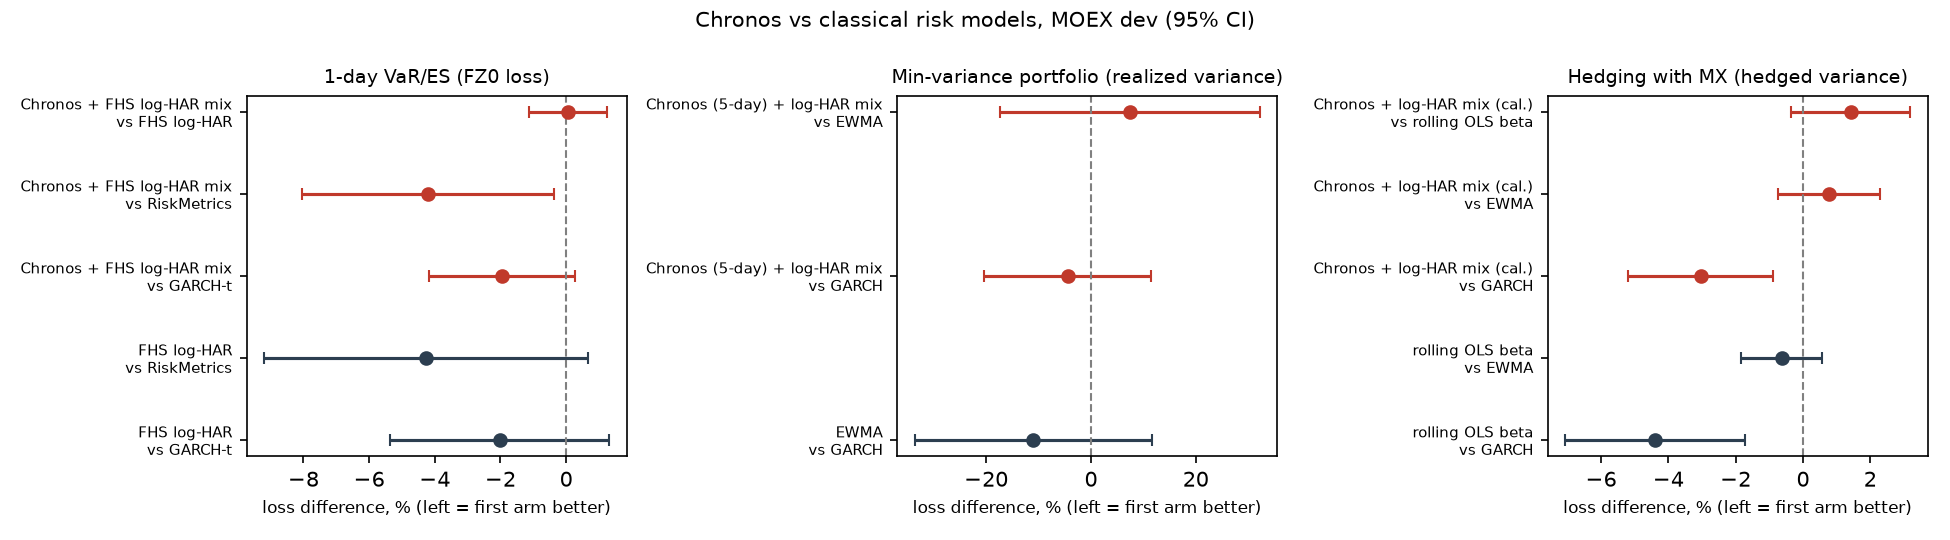
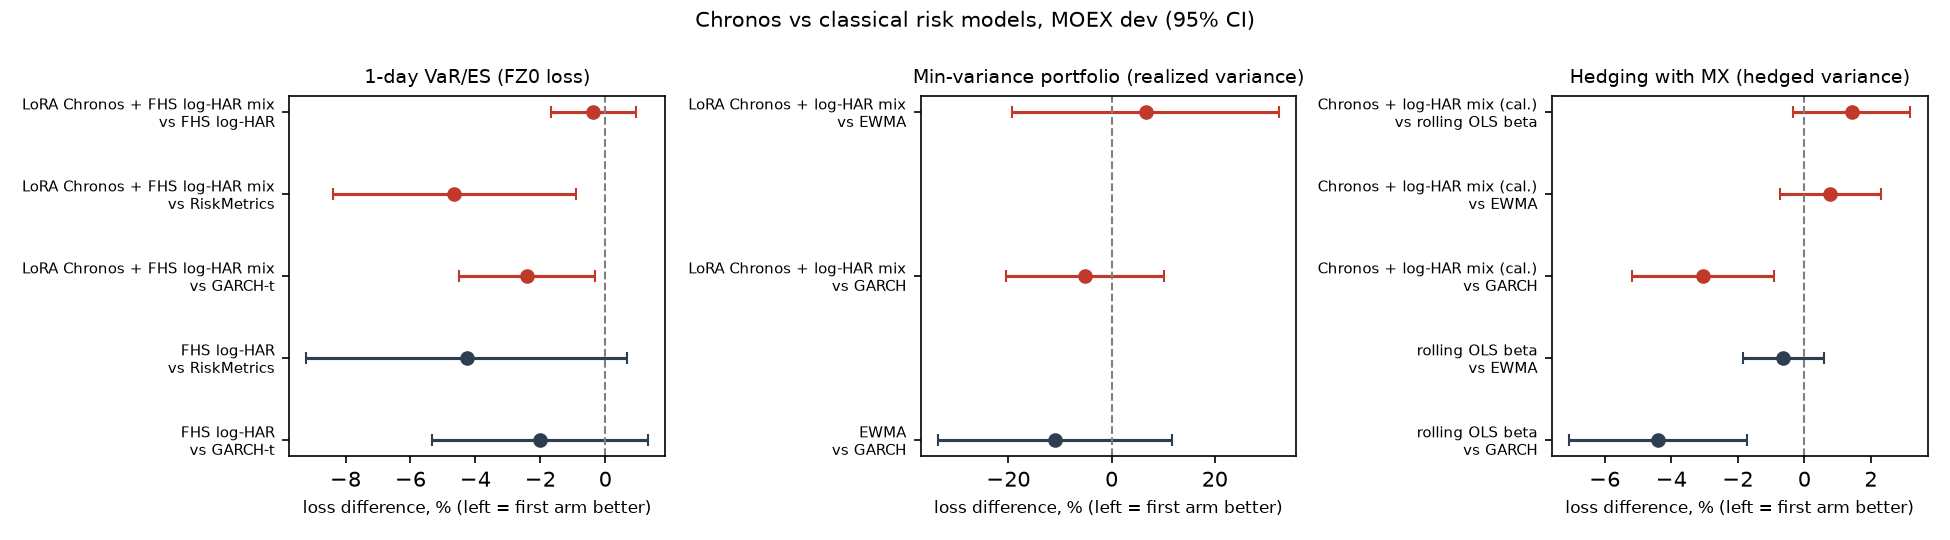
F rule applied: frozen U1 C = mixeq_chr_F2ret, U3 C = mixeq_chr_F2rv. Holdout evaluator builds them from the spliced F2 source plus the Colab holdout folds (records and exact eligible coverage checked before any scoring); local holdout sources reduced to Z3/N5m/N5e. Frozen F2 arms rebuilt identicall

diff --git a/forecasting/risk_experiment/holdout_run.py b/forecasting/risk_experiment/holdout_run.py
@@ -28,13 +28,16 @@ al, rl, ra, cs = rr.al, rr.rl, rr.ra, rr.cs
 NW, Z = rr.NW, stats.norm.ppf(0.95)
 
 # ── frozen by the pre-registration (dev selection; F rule applied before the PREREG commit) ──────────────
-# (re-selected after the plan-H universe correction)
-FROZEN = {"U1": {"C": "mixeq_chr_N1ret", "B": "fhs_loghar", "refs": ("rm", "garch_t")},
+# (re-selected after the plan-H universe correction; U1 and U3 C replaced by F2 arms under the F rule, plan I)
+FROZEN = {"U1": {"C": "mixeq_chr_F2ret", "B": "fhs_loghar", "refs": ("rm", "garch_t")},
           "U2": {"C": "fac_chr", "B": "port_loghar", "refs": ("ewma", "garch")},
-          "U3": {"C": "mixeq_chr_N4rv", "B": "ewma", "refs": ("ewma", "garch")},
+          "U3": {"C": "mixeq_chr_F2rv", "B": "ewma", "refs": ("ewma", "garch")},
           "U4": {"C": "mixeq_chr_Z3_cal", "B": "ols_beta", "refs": ("ewma", "garch")}}
 MARGIN_COLS = {"U1": "delta_50pct_gap", "U4": "delta_0.5pp_vol"}   # non-inferiority δ (U2, U3: not testable)
-SOURCES = ("Z3", "N1", "N4", "N5m", "N5e")
+SOURCES = ("Z3", "N5m", "N5e")                     # zero-shot holdout sources the frozen arms need (run locally)
+F_SOURCES = ("F2",)                                # fine-tuned sources the frozen arms need (Colab holdout bundle)
+FT_HOLDOUT = rr.RUNS / "risk_ft" / "holdout"
+F_HOLDOUT_YEARS = (2025, 2026)
 
 
 def margins() -> dict:
@@ -51,15 +54,41 @@ def holdout_source_path(name: str) -> Path:
     return rr.OUT / "sources" / "holdout" / name / "preds.parquet"
 
 
-def load_sources(period: str) -> dict:
+def check_f_holdout(name: str, ft: pd.DataFrame, eligible: pd.DataFrame) -> None:
+    """Coverage of the Colab holdout forecasts, checked before any scoring: every eligible (anchor, ticker) of
+    the holdout, each variate of the target and h = 1..H, exactly once (the dev folds had exactly this, since
+    they matched their zero-shot twin generated by the same function)."""
+    import ft_core as fc
+    keys = ["anchor", "ticker", "variate", "h"]
+    anchors = rr.span(eligible.index, rr.HOLDOUT)
+    el = eligible.loc[anchors].stack()
+    cells = el[el].index
+    want = pd.MultiIndex.from_tuples([(a, t, v, h) for a, t in cells for v in fc.TARGETS[name] for h in range(1, fc.H + 1)],
+                                     names=keys)
+    got = pd.MultiIndex.from_frame(ft[keys].assign(anchor=pd.to_datetime(ft["anchor"])))
+    miss, extra = want.difference(got), got.difference(want)
+    if got.has_duplicates or len(miss) or len(extra):
+        raise ValueError(f"{name} holdout: missing {len(miss)}, extra {len(extra)}, duplicated {int(got.duplicated().sum())} rows")
+
+
+def load_sources(period: str, eligible: pd.DataFrame | None = None) -> dict:
     """Dev forecasts; for the holdout, dev + holdout forecasts concatenated (the panels agree on the overlap,
-    holdout_qa), so rolling calibrations at the start of 2025 see late-2024 forecasts."""
-    dev = {"Z3": rr.SRC["Z3"], "N1": rr.SRC["N1"], "N4": rr.SRC["N4"], "N5m": rr.source_path("N5m"), "N5e": rr.source_path("N5e")}
+    holdout_qa), so rolling calibrations at the start of 2025 see late-2024 forecasts. Fine-tuned sources are
+    the spliced dev source (plan I) followed by the Colab holdout folds."""
+    dev = {"Z3": rr.SRC["Z3"], "N5m": rr.source_path("N5m"), "N5e": rr.source_path("N5e")}
     P = {k: pd.read_parquet(v) for k, v in dev.items()}
+    P.update({k: rr.load_f_source(k) for k in F_SOURCES})
     if period == "holdout":
+        h0 = pd.Timestamp(rr.HOLDOUT[0])
         for k in SOURCES:
             h = pd.read_parquet(holdout_source_path(k))
-            P[k] = pd.concat([P[k][P[k]["anchor"] < pd.Timestamp(rr.HOLDOUT[0])], h], ignore_index=True)
+            P[k] = pd.concat([P[k][P[k]["anchor"] < h0], h], ignore_index=True)
+        for k in F_SOURCES:
+            rr.ft_records(FT_HOLDOUT, (k,), years=F_HOLDOUT_YEARS)            # folds present, lr = validation argmin
+            ft = pd.concat([pd.read_parquet(FT_HOLDOUT / k / str(y) / "preds.parquet") for y in F_HOLDOUT_YEARS], ignore_index=True)
+            ft["anchor"] = pd.to_datetime(ft["anchor"]).astype(P[k]["anchor"].dtype)
+            check_f_holdout(k, ft, eligible)
+            P[k] = pd.concat([P[k][P[k]["anchor"] < h0], ft[P[k].columns]], ignore_index=True)
     return P
 
 
@@ -80,14 +109,14 @@ def build_arms(period: str, D, inb) -> dict:
     y1, steps = ret.shift(-1), (1, 2, 3, 4, 5)
     mask1 = D["eligible"] & inb & y1.notna()
     mask5 = D["eligible"] & inb
-    P = load_sources(period)
+    P = load_sources(period, D["eligible"])
     A = {}
     # U1 (as build_u1_arms)
     s_lh = np.sqrt(al.vol_har_log(rv, (1,), mask=D["eligible"], pooled=True, market=True))
     V, E = rl.fhs_var_es(y1 / s_lh, s_lh, mask1, 0.05, horizon=1)
     A["fhs_loghar"] = (V, E)
-    Vc, Ec = ra.chronos_vares(P["N1"], (0.05,), cal, cols, variate="ret", h=1)[0.05]
-    A["mixeq_chr_N1ret"] = (rl.vincentize([Vc, V], [0.5, 0.5]), rl.vincentize([Ec, E], [0.5, 0.5]))
+    Vc, Ec = ra.chronos_vares(P["F2"], (0.05,), cal, cols, variate="ret", h=1)[0.05]           # as build_f_arms
+    A["mixeq_chr_F2ret"] = (rl.vincentize([Vc, V], [0.5, 0.5]), rl.vincentize([Ec, E], [0.5, 0.5]))
     A["rm"] = ra.normal_var_es(np.sqrt(al.vol_ewma(ret, 1)), 0.05)
     s2, nu, mu = ra.garch_t_1step(ret)
     A["garch_t"] = ra.t_var_es(np.sqrt(s2), nu, 0.05, mu)
@@ -95,7 +124,7 @@ def build_arms(period: str, D, inb) -> dict:
     Vc5 = rr.classical_vol_panel(D)
     r5sq = sum(ret.shift(-h) for h in steps) ** 2
     A["ewma"], A["garch"] = Vc5["ewma"], Vc5["garch"]
-    A["mixeq_chr_N4rv"] = rl.geo_mix([ra.chronos_rv(P["N4"], (1,), cal, cols, variate="logrv"), Vc5["loghar_pooled_mkt"]], [0.5, 0.5])
+    A["mixeq_chr_F2rv"] = rl.geo_mix([ra.chronos_rv(P["F2"], steps, cal, cols, variate="logrv"), Vc5["loghar_pooled_mkt"]], [0.5, 0.5])
     mz = rl.geo_mix([ra.chronos_rv(P["Z3"], steps, cal, cols), Vc5["loghar_pooled_mkt"]], [0.5, 0.5])
     A["mixeq_chr_Z3_cal"] = mz.mul(al.rolling_vol_scale(mz, r5sq, mask5, horizon=5), axis=0)
     # N5 factor arms (as build_n5_arms)
@@ -132,27 +161,28 @@ def evaluate(period: str) -> dict:
     # U1
     y1 = ret.shift(-1)
     M = D["eligible"] & ine & y1.notna()
-    for k in ("mixeq_chr_N1ret", "fhs_loghar", "rm", "garch_t"):
+    n1 = (FROZEN["U1"]["C"], FROZEN["U1"]["B"], *FROZEN["U1"]["refs"])
+    for k in n1:
         V, E = A[k]
         M &= V.lt(0) & E.lt(V)
-    L = {k: rl.fz0_panel(y1, *A[k], M, 0.05) for k in ("mixeq_chr_N1ret", "fhs_loghar", "rm", "garch_t")}
+    L = {k: rl.fz0_panel(y1, *A[k], M, 0.05) for k in n1}
     res["U1"] = claims("U1", L, delta.get("U1"), S)
     # U2/U3 on one universe: eligible, R5 finite, all inputs finite
     R5 = ra.forward_simple_return(ret, steps)
     rf = D["bench"]["rf"].reindex(cal)
     rf5 = np.expm1(sum(np.log1p(rf.shift(-h)) for h in steps))
-    U = D["eligible"] & ine & R5.notna() & A["ewma"].gt(0) & A["garch"].gt(0) & A["mixeq_chr_N4rv"].gt(0) & A["fac_chr"][1].notna()
+    U = D["eligible"] & ine & R5.notna() & A["ewma"].gt(0) & A["garch"].gt(0) & A[FROZEN["U3"]["C"]].gt(0) & A["fac_chr"][1].notna()
     U &= pd.DataFrame(np.repeat(A["port_loghar"].gt(0).to_numpy()[:, None], U.shape[1], 1), U.index, U.columns)
     dates = U.index[U.sum(axis=1) >= 10]
     ec = al.ewma_corr(ret)
     corr = {d: pd.DataFrame(C, index=ec["cols"], columns=ec["cols"]) for d, C in ec["C"].items() if d in set(dates)}
     target5 = rr.VT_TARGET_ANNUAL * np.sqrt(5 / 252)
-    drd = ra.portfolio_paths({k: A[k] for k in ("ewma", "garch", "mixeq_chr_N4rv")}, corr, R5, rf5, U, dates, target5)
+    drd = ra.portfolio_paths({k: A[k] for k in ("ewma", "garch", FROZEN["U3"]["C"])}, corr, R5, rf5, U, dates, target5)
     fac = ra.n5_portfolio_paths({"fac_chr": A["fac_chr"]}, {"port_loghar": A["port_loghar"]},
                                 A["_beta_d"], R5, rf5, U, pd.DatetimeIndex(drd["ewma"]["gmv"].index), target5)
     common = fac["fac_chr"]["gmv"].index
     paths = {**{k: {m: s.loc[common] for m, s in v.items()} for k, v in drd.items()}, **fac}
-    res["U3"] = claims("U3", {k: paths[k]["gmv"] ** 2 for k in ("mixeq_chr_N4rv", "ewma", "garch")}, delta.get("U3"), S)
+    res["U3"] = claims("U3", {k: paths[k]["gmv"] ** 2 for k in (FROZEN["U3"]["C"], "ewma", "garch")}, delta.get("U3"), S)
     res["U2"] = claims_u2({k: paths[k]["vt"] for k in ("fac_chr", "port_loghar", "ewma", "garch")})
     # U4 (as evaluate_u4, frozen arms only)
     r_f = al.futures_main_returns(al.load_long(rr.FUT_10M, tickers=["MX"], end=cal.max()), cal)["MX"]
@@ -232,11 +262,6 @@ def stage_sources():
     cal = D["ret"].index
     anchors = rr.span(cal, rr.HOLDOUT)
     pipe = R.load_pipeline()
-    for name, (block, stride, ctx, H) in rr.SOURCES.items():                    # N1, N4
-        f = holdout_source_path(name)
-        if not f.exists():
-            cs.generate_multivariate(pipe, cs.rv_panels(D["ret"], D["rv"], block=block), D["eligible"], anchors,
-                                     ctx=ctx, H=H, stride=stride, cross_learning=True, out_path=f, holdout_unlock=True)
     fz = holdout_source_path("Z3")
     if not fz.exists():                                                  # Z3: as alpha_run.stage_rvtarget "xl"
         fz.parent.mkdir(parents=True, exist_ok=True)

diff --git a/forecasting/risk_experiment/diagnostics/prereg_power.py b/forecasting/risk_experiment/diagnostics/prereg_power.py
@@ -21,8 +21,10 @@ Z = stats.norm.ppf(0.95)
 
 # dev-best arms (pooled primary loss); fine-tuned arms are added once the Colab outputs exist
 # re-selected after the plan-H universe correction (dev-best Chronos-containing arm, dev-best classical arm)
-PAIRS = {"U1": ("mixeq_chr_N1ret", "fhs_loghar"), "U2": ("fac_chr", "port_loghar"),
-         "U3": ("mixeq_chr_N4rv", "ewma"), "U4": ("mixeq_chr_Z3_cal", "ols_beta")}
+# U1 and U3 C replaced by F2 arms under the F rule (plan I). The F2 arms do not gate the dev universe here,
+# so the approved margins (which depend only on B and the reference) are reproduced exactly.
+PAIRS = {"U1": ("mixeq_chr_F2ret", "fhs_loghar"), "U2": ("fac_chr", "port_loghar"),
+         "U3": ("mixeq_chr_F2rv", "ewma"), "U4": ("mixeq_chr_Z3_cal", "ols_beta")}
 
 
 def dev_setup():
@@ -41,13 +43,34 @@ def u1_losses(D, S, mask1):
         if 0.05 in v and rr.gates(k):
             V, E = v[0.05]
             M &= V.lt(0) & E.lt(V)
-    return {k: rl.fz0_panel(y1, *arms[k][0.05], M, 0.05) for k in ("mixeq_chr_N1ret", "fhs_loghar", "rm", "garch_t")}
+    out = {k: rl.fz0_panel(y1, *arms[k][0.05], M, 0.05) for k in ("fhs_loghar", "rm", "garch_t")}
+    Vc, Ec = ra.chronos_vares(rr.load_f_source("F2"), (0.05,), D["ret"].index, D["ret"].columns, variate="ret", h=1)[0.05]
+    V, E = arms["fhs_loghar"][0.05]
+    out["mixeq_chr_F2ret"] = rl.fz0_panel(y1, rl.vincentize([Vc, V], [0.5, 0.5]), rl.vincentize([Ec, E], [0.5, 0.5]), M, 0.05)
+    return out
 
 
-def u23_paths():
+def u23_paths(D, S, mask5):
+    """Cached D·R·D and N5 paths, plus the F2 GMV arm on the same universe and dates (as evaluate_vol)."""
     Pc = pd.read_parquet(rr.OUT / "dev" / "cache" / "portfolio_paths.parquet")
     Pn = pd.read_parquet(rr.OUT / "dev" / "cache" / "n5_paths.parquet")
-    return pd.concat([Pc.loc[Pn.index], Pn], axis=1)
+    ret, cal, cols, steps = D["ret"], D["ret"].index, D["ret"].columns, (1, 2, 3, 4, 5)
+    va = rr.build_vol_arms(D, S, mask5)
+    R5 = ra.forward_simple_return(ret, steps)
+    rf = D["bench"]["rf"].reindex(cal)
+    rf5 = np.expm1(sum(np.log1p(rf.shift(-h)) for h in steps))
+    U = mask5 & R5.notna()
+    for k, v in va.items():
+        if rr.gates(k):
+            U &= v.gt(0)
+    ec = al.ewma_corr(ret)
+    dates = Pc.index
+    corr = {d: pd.DataFrame(C, index=ec["cols"], columns=ec["cols"]) for d, C in ec["C"].items() if d in set(dates)}
+    c3 = PAIRS["U3"][0]
+    arm = rl.geo_mix([ra.chronos_rv(rr.load_f_source("F2"), steps, cal, cols, variate="logrv"), va[rr.MIX_PARTNER_VOL]], [0.5, 0.5])
+    new = ra.portfolio_paths({c3: arm}, corr, R5, rf5, U, dates, rr.VT_TARGET_ANNUAL * np.sqrt(5 / 252))
+    Pf = pd.concat({k: pd.DataFrame(v) for k, v in new.items()}, axis=1)
+    return pd.concat([Pc.loc[Pn.index], Pf.loc[Pn.index], Pn], axis=1)
 
 
 def u4_losses(D, S, mask5):
@@ -110,8 +133,8 @@ def main():
     D, S, mask1, mask5 = dev_setup()
     rows = []
     L1 = u1_losses(D, S, mask1)
-    P = u23_paths()
-    L3 = {k: P[(k, "gmv")] ** 2 for k in ("mixeq_chr_N4rv", "ewma", "garch")}
+    P = u23_paths(D, S, mask5)
+    L3 = {k: P[(k, "gmv")] ** 2 for k in (PAIRS["U3"][0], "ewma", "garch")}
     L4 = u4_losses(D, S, mask5)
     to_vol = lambda L: np.sqrt(L * 252 / 5)                               # noqa: E731  loss (mean r5²) -> annual vol
     for use, L, ref in (("U1", L1, "rm"), ("U3", L3, "ewma"), ("U4", L4, "ewma")):

diff --git a/forecasting/risk_experiment/colab/build_notebook.py b/forecasting/risk_experiment/colab/build_notebook.py
@@ -8,6 +8,7 @@ import nbformat as nbf
 
 MD, CODE = nbf.v4.new_markdown_cell, nbf.v4.new_code_cell
 
+MODE = sys.argv[2] if len(sys.argv) > 2 else "dev"                       # sets the default BUNDLE path
 cells = [
     MD("# Chronos-2 LoRA fine-tuning for the risk study (F1 log-RV, F2 [return, log-RV])\n\n"
        "Upload the **unzipped** bundle folder to Google Drive, set `BUNDLE` below, then **Runtime → Run all** "
@@ -26,7 +27,7 @@ cells = [
          "!pip -q uninstall -y torchao"),
     CODE("from google.colab import drive\n"
          "drive.mount('/content/drive')\n"
-         "BUNDLE = '/content/drive/MyDrive/risk_bundle_dev'   # <- the unzipped bundle folder on Drive\n"
+         f"BUNDLE = '/content/drive/MyDrive/risk_bundle_{MODE}'   # <- the unzipped bundle folder on Drive\n"
          "TRAINER_TMP = '/content/trainer_tmp'                # Trainer scratch on local disk (not Drive)"),
     CODE("import json, sys, time, platform\n"
          "from pathlib import Path\n"
@@ -68,7 +69,8 @@ cells = [
          "    assert r['max_abs_diff'] < 5e-3, f'{tgt}: GPU zero-shot differs from the CPU reference by {r[\"max_abs_diff\"]:.2e}'"),
     CODE("# main loop: all folds, resumable. The first fold also serves as the timing smoke test.\n"
          "t0 = time.time()\n"
-         "recs = fc.run_all(pipe, panels, eligible, cfg['mode'], OUT, trainer_root=TRAINER_TMP)\n"
+         "recs = fc.run_all(pipe, panels, eligible, cfg['mode'], OUT, targets=tuple(cfg.get('run_targets', ['F1', 'F2'])),\n"
+         "                  trainer_root=TRAINER_TMP)\n"
          "print(f'done in {(time.time() - t0) / 60:.1f} min')"),
     CODE("import shutil\n"
          "zp = shutil.make_archive('/content/outputs', 'zip', root_dir=OUT)\n"

diff --git a/forecasting/risk_experiment/colab/make_bundle.py b/forecasting/risk_experiment/colab/make_bundle.py
@@ -76,9 +76,14 @@ def build(mode: str) -> Path:
             p = p[p["h"] <= fc.H]
             p.to_parquet(out / "parity" / f"{tgt}_zero_shot_ref.parquet")
             parity[tgt] = {"source": str(f.relative_to(ROOT)), "rows": len(p)}
-    subprocess.run([sys.executable, str(HERE / "build_notebook.py"), str(out / "ft_lora.ipynb")], check=True)
+    subprocess.run([sys.executable, str(HERE / "build_notebook.py"), str(out / "ft_lora.ipynb"), mode], check=True)
+    if mode == "holdout":                                               # only the fine-tuned sources a frozen arm needs
+        import holdout_run
+        run_targets = list(holdout_run.F_SOURCES)
+    else:
+        run_targets = list(fc.TARGETS)
     cfg = {"mode": mode, "cutoff": CUTOFF[mode], "folds": {str(k): v for k, v in fc.FOLDS[mode].items()},
-           "targets": fc.TARGETS, "ctx": fc.CTX, "H": fc.H, "lr_grid": list(fc.LR_GRID), "num_steps": fc.NUM_STEPS,
+           "targets": fc.TARGETS, "run_targets": run_targets, "ctx": fc.CTX, "H": fc.H, "lr_grid": list(fc.LR_GRID), "num_steps": fc.NUM_STEPS,
            "val_days": fc.VAL_DAYS, "val_stride": fc.VAL_STRIDE, "parity_anchors": PARITY_ANCHORS, "parity": parity,
            "chronos_forecasting": "2.3.2", "model": "amazon/chronos-2",
            "sha256_16": {str(p.relative_to(out)): sha(p) for p in sorted(out.rglob("*")) if p.is_file()}}

diff --git a/forecasting/risk_experiment/tests/test_dev_ft.py b/forecasting/risk_experiment/tests/test_dev_ft.py
@@ -89,3 +89,20 @@ def test_twin_names():
     assert rr.f_twin_name("mixeq_chr_F1_cal") == "mixeq_chr_Z3_cal"
     assert rr.f_twin_name("mixeq_chr_F2ret") == "mixeq_chr_N1ret"
     assert rr.f_twin_name("chrfhs_F2rv_cal") == "chrfhs_N1rv_cal"
+
+
+def test_holdout_coverage_check(monkeypatch):
+    sys.path.insert(0, str(Path(__file__).resolve().parents[1] / "colab"))
+    import holdout_run as hr
+    monkeypatch.setattr(rr, "HOLDOUT", ("2025-01-01", "2025-01-10"))
+    cal = pd.bdate_range("2024-12-20", "2025-01-10")
+    elig = pd.DataFrame(True, index=cal, columns=["AAA", "BBB"])
+    elig.loc["2025-01-06", "BBB"] = False
+    anchors = [a for a in cal if a >= pd.Timestamp("2025-01-01")]
+    ft = _preds(anchors, ["AAA", "BBB"], ["ret", "logrv"], h=(1, 2, 3, 4, 5))
+    ft = ft[~((ft["anchor"] == "2025-01-06") & (ft["ticker"] == "BBB"))]
+    hr.check_f_holdout("F2", ft, elig)                                   # exact coverage passes
+    with pytest.raises(ValueError, match="missing 1"):
+        hr.check_f_holdout("F2", ft.iloc[1:], elig)
+    with pytest.raises(ValueError, match="duplicated 1"):
+        hr.check_f_holdout("F2", pd.concat([ft, ft.iloc[:1]]), elig)

diff --git a/forecasting/risk_experiment/risk_run.py b/forecasting/risk_experiment/risk_run.py
@@ -984,12 +984,12 @@ F_START, F_END = "2022-01-01", "2024-12-31"                             # calend
 FROZEN_C = {"U1": "mixeq_chr_N1ret", "U2": "fac_chr", "U3": "mixeq_chr_N4rv", "U4": "mixeq_chr_Z3_cal"}   # = holdout_run.FROZEN
 
 
-def ft_records(ft_dir: Path = FT_DIR, targets=("F1", "F2")) -> pd.DataFrame:
+def ft_records(ft_dir: Path = FT_DIR, targets=("F1", "F2"), years=F_YEARS) -> pd.DataFrame:
     """One row per (target, year) from the Colab record.json files, with the checks of plan W0.1:
     all dev folds present, the chosen lr is the argmin of the inner-validation loss, the adapter was saved."""
     rows = []
     for t in targets:
-        for y in F_YEARS:
+        for y in years:
             f = Path(ft_dir) / t / str(y) / "record.json"
             if not f.exists():
                 raise FileNotFoundError(f"missing Colab fold {t} {y}: {f}")

diff --git a/forecasting/risk_experiment/make_figures.py b/forecasting/risk_experiment/make_figures.py
@@ -20,7 +20,8 @@ LABEL = {"rm": "RiskMetrics", "garch_t": "GARCH-t", "garch": "GARCH", "ewma": "E
          "fac_chr_cal": "Chronos one-factor (cal.)", "fac_loghar_cal": "log-HAR one-factor (cal.)",
          "mixeq_chr_N4rv_cal": "Chronos + log-HAR mix (cal.)", "fac_chr": "Chronos one-factor", "fac_ewma_cal": "EWMA one-factor (cal.)",
          "fhs_loghar": "FHS log-HAR", "mixeq_chr_N4rv": "Chronos (5-day) + log-HAR mix",
-         "mixeq_chr_Z3_cal": "Chronos + log-HAR mix (cal.)", "port_loghar": "log-HAR on portfolio RV"}
+         "mixeq_chr_Z3_cal": "Chronos + log-HAR mix (cal.)", "port_loghar": "log-HAR on portfolio RV",
+         "mixeq_chr_F2ret": "LoRA Chronos + FHS log-HAR mix", "mixeq_chr_F2rv": "LoRA Chronos + log-HAR mix"}
 
 
 def nice(arm: str, chronos: set | None = None) -> str:
